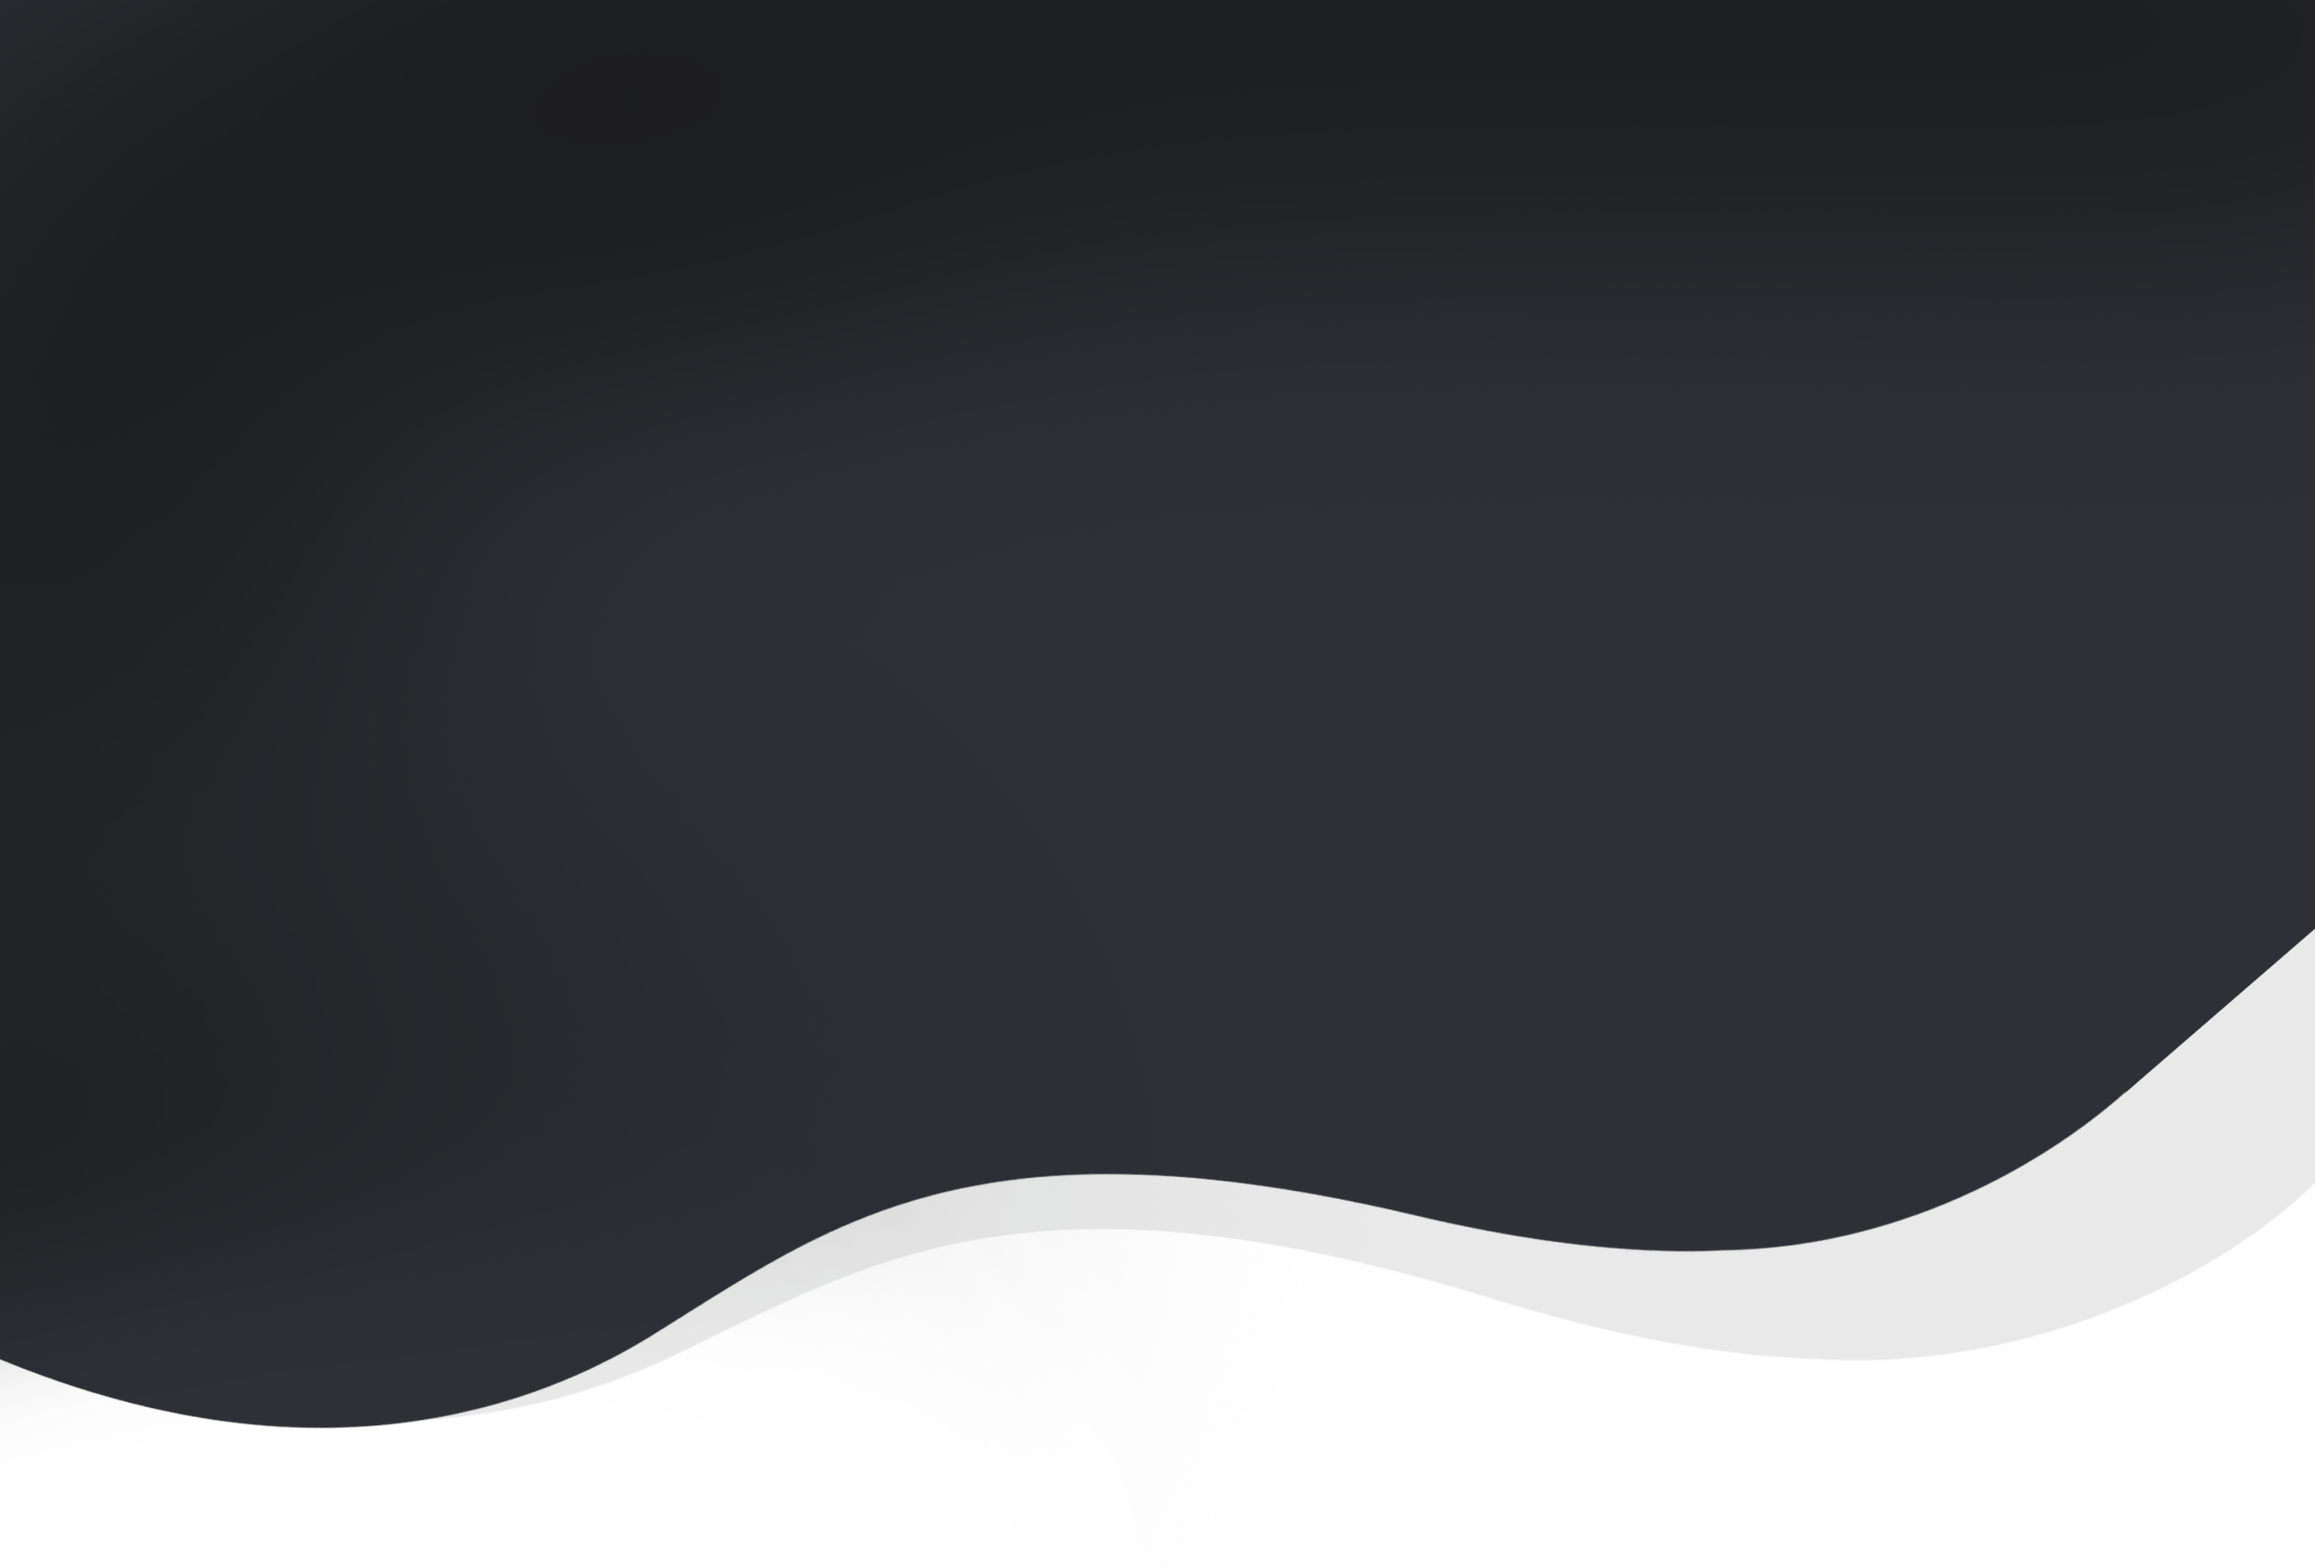
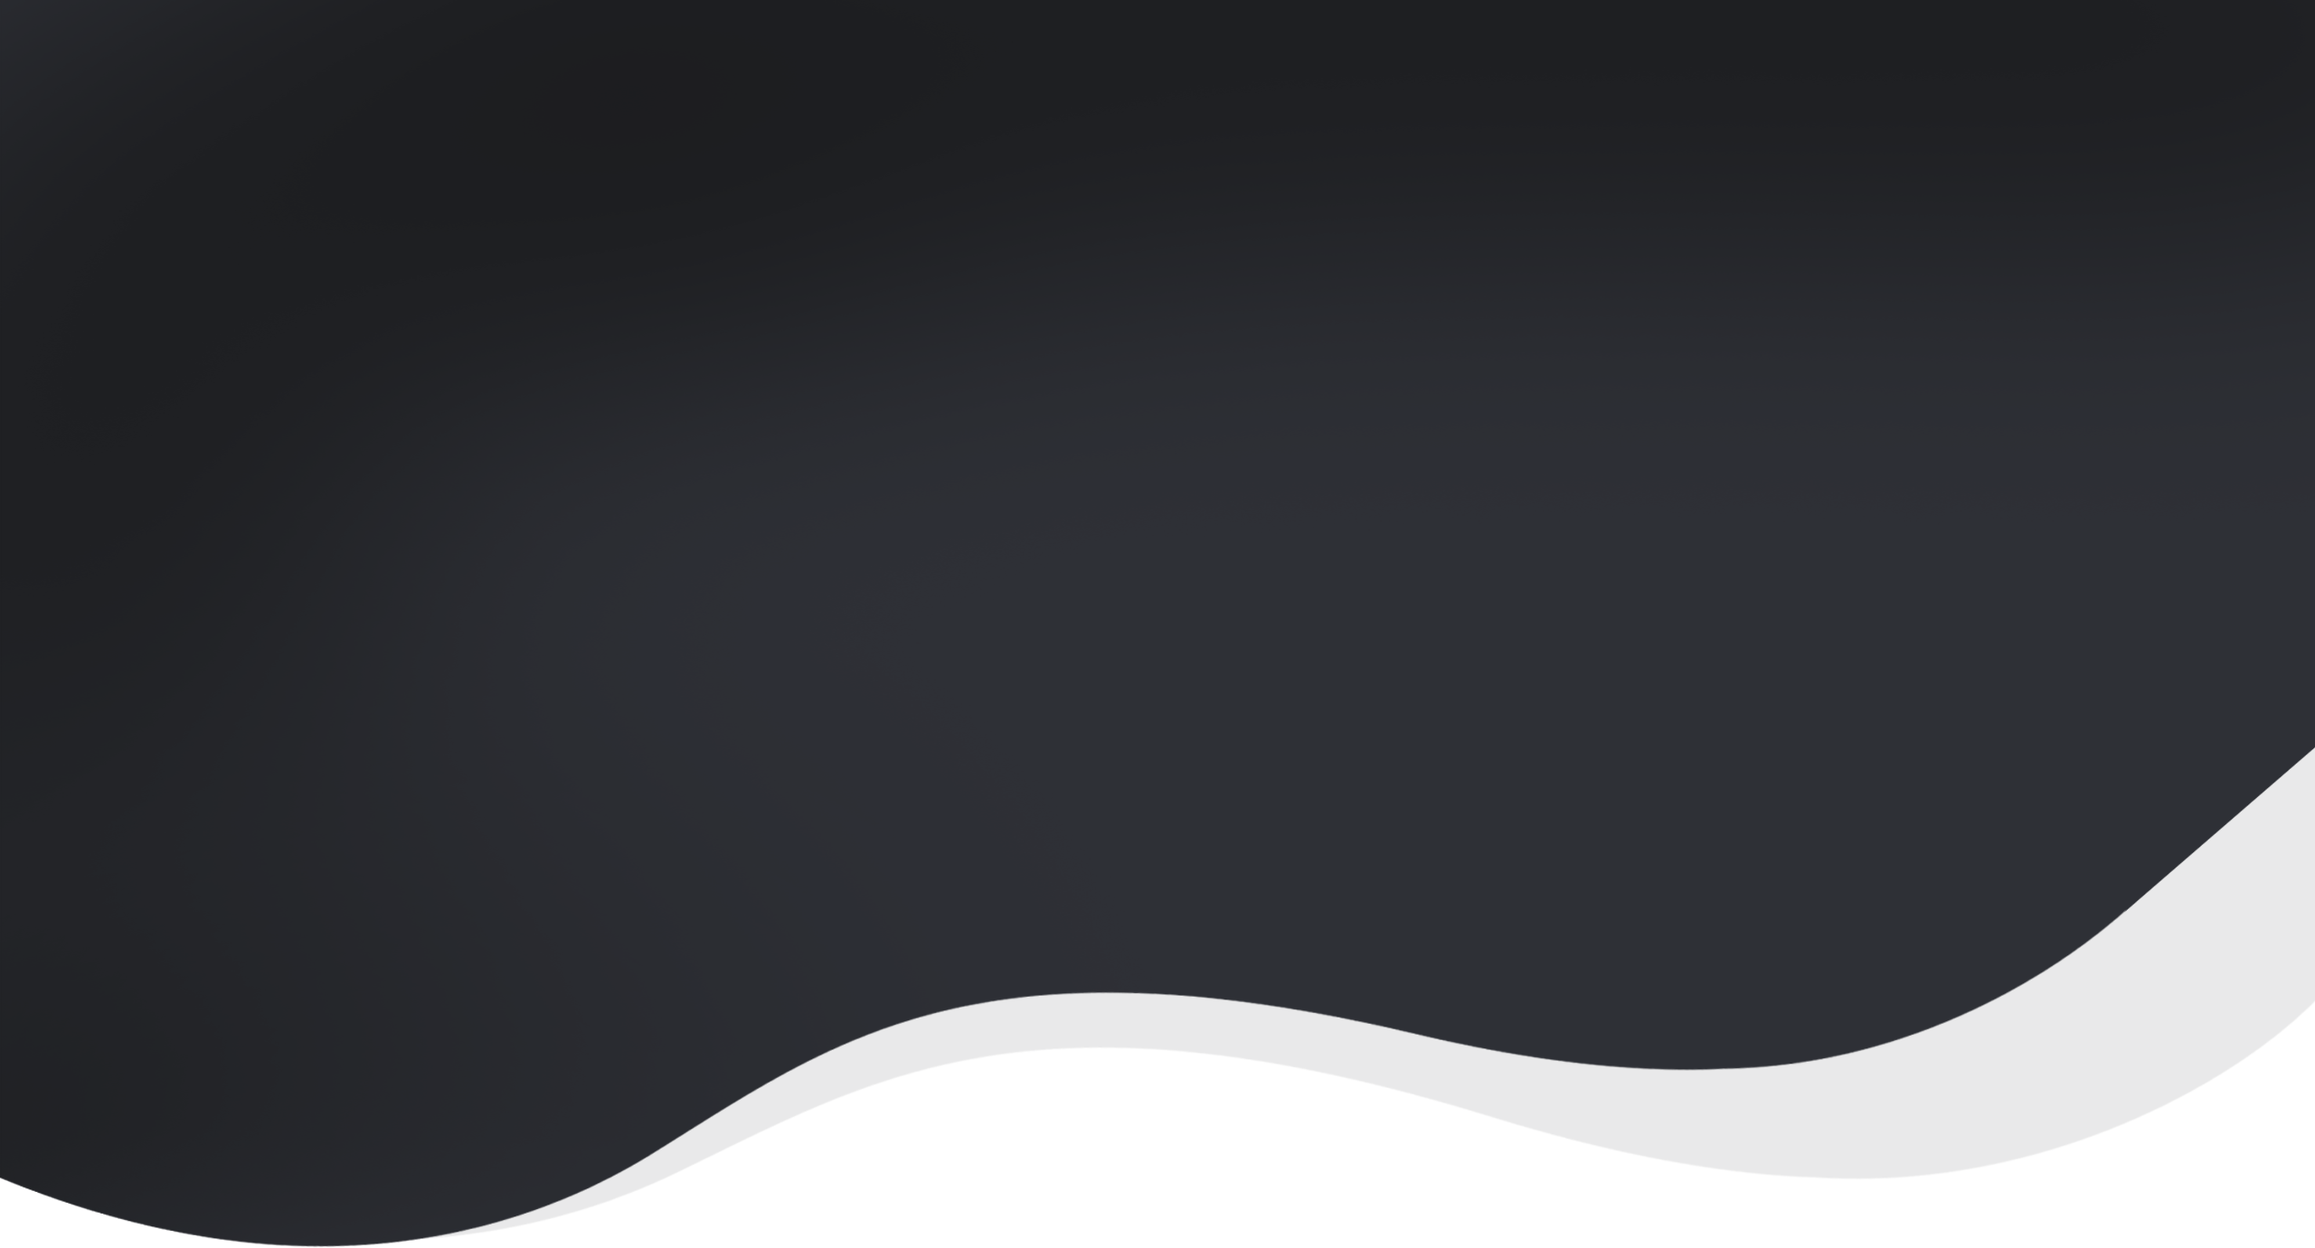
bg 및 간격 수정

Changed region(s): [[0.0, 0.685, 0.9375, 1.0], [0.9375, 0.5916, 1.0, 0.685]]

diff --git a/resources/css/ui.contents.css b/resources/css/ui.contents.css
@@ -1,7 +1,7 @@
 @charset "utf-8";
 
 /* 메인 */
-.teacher-group {height:1580px; position:relative;margin-top:-20px}
+.teacher-group {height:1280px; position:relative;margin-top:-20px}
 .teacher-group h2 {display:block;margin:0 auto;max-width:1640px;padding:0 20px;text-align:center;color:#dfdfdf;font-size:50px;font-weight:100;}
 .teacher-group h2 strong {color:#2b2e34;font-weight:100;background-color:#ffcd6c;}
 .teacher-group .logo-text {color:#f8d057;}
